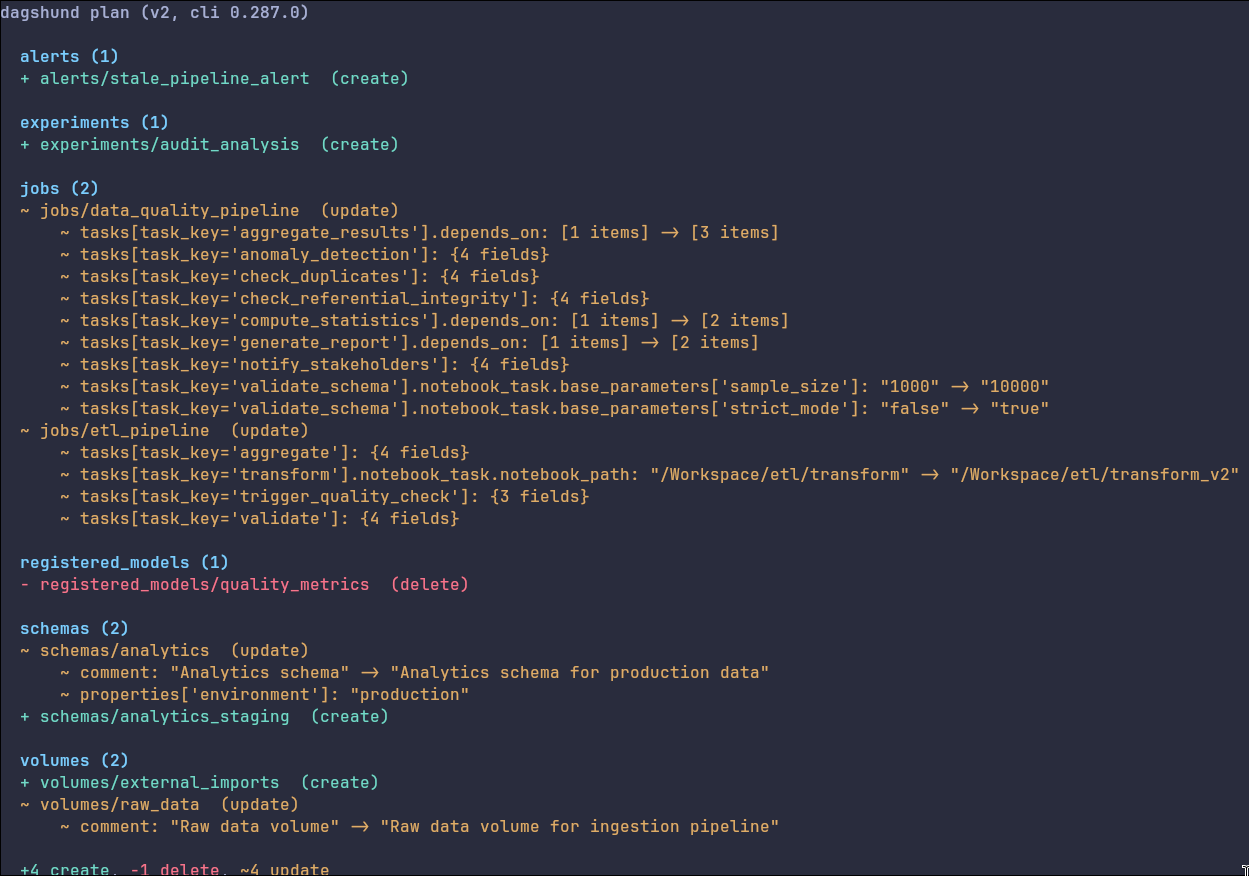
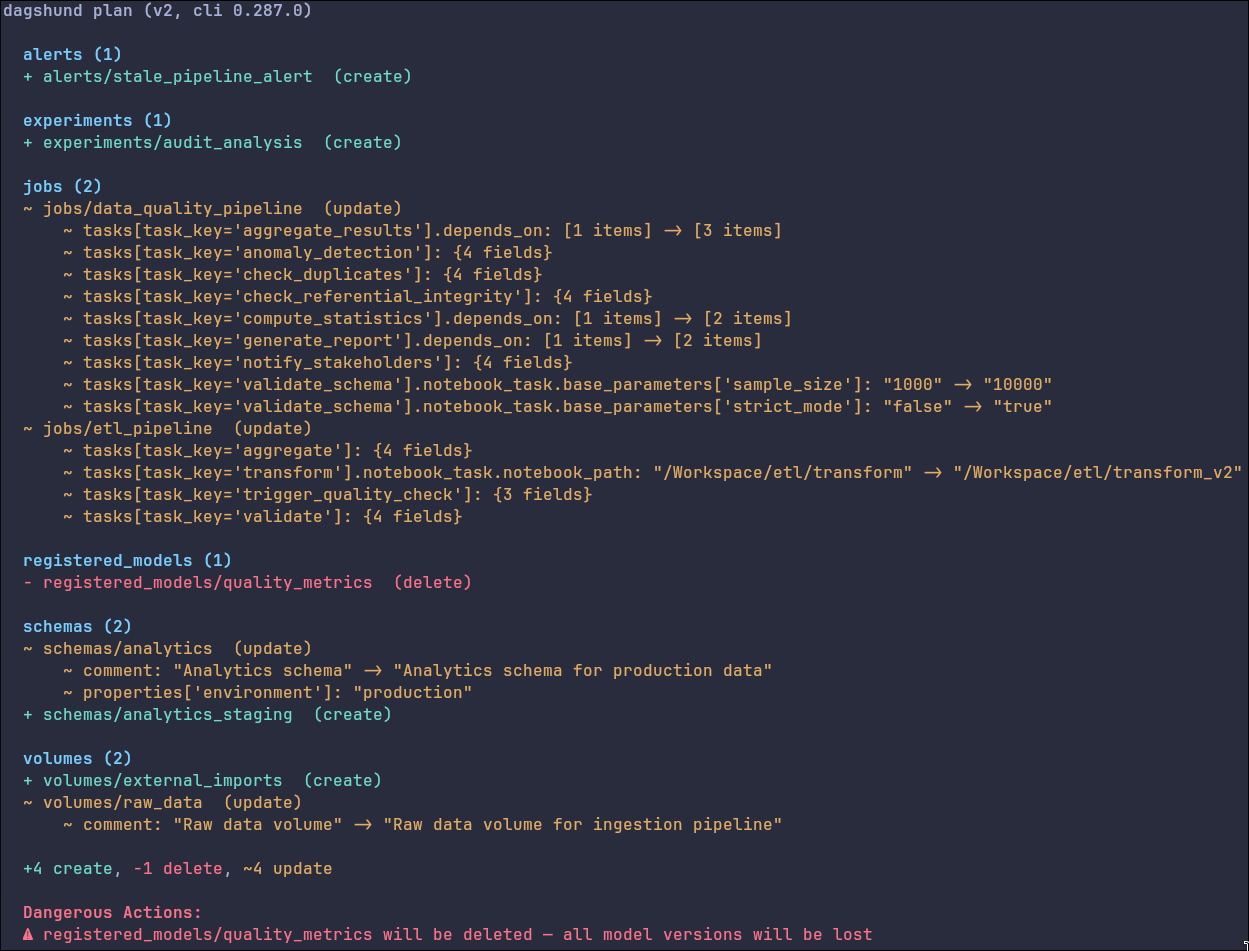
feat(cli): warn on dangerous actions for stateful resources
Emit warnings below the summary line when delete/recreate actions
target stateful resources (catalogs, schemas, volumes, registered_models).
Warnings respect --changes-only and individual diff state filters.

diff --git a/tests/test_text.py b/tests/test_text.py
@@ -7,7 +7,9 @@ import pytest
 from dagshund import DagshundError
 from dagshund.text import (
     _ACTIONS,
+    _DANGEROUS_ACTIONS,
     _DEFAULT_ACTION,
+    _STATEFUL_RESOURCE_WARNINGS,
     DIM,
     GREEN,
     RED,
@@ -17,6 +19,7 @@ from dagshund.text import (
     _action_config,
     _action_to_diff_state,
     _ActionConfig,
+    _collect_warnings,
     _colorize,
     _count_by_action,
     _filter_by_diff_state,
@@ -27,6 +30,7 @@ from dagshund.text import (
     _print_header,
     _print_resource_groups,
     _print_summary,
+    _print_warnings,
     _render_resource,
     _supports_color,
     render_text,
@@ -813,3 +817,204 @@ def test_render_text_no_visible_states_shows_everything(fixtures_dir: Path, caps
     assert "jobs" in out
     assert "schemas" in out
     assert "alerts" in out
+
+
+# --- _collect_warnings ---
+
+
+def test_collect_warnings_detects_stateful_delete() -> None:
+    resources = {"resources.volumes.imports": {"action": "delete"}}
+
+    warnings = _collect_warnings(resources)
+
+    assert len(warnings) == 1
+    assert "volumes/imports" in warnings[0]
+    assert "deleted" in warnings[0]
+    assert "all files in this volume will be lost" in warnings[0]
+
+
+def test_collect_warnings_detects_stateful_recreate() -> None:
+    resources = {"resources.schemas.analytics": {"action": "recreate"}}
+
+    warnings = _collect_warnings(resources)
+
+    assert len(warnings) == 1
+    assert "schemas/analytics" in warnings[0]
+    assert "recreated" in warnings[0]
+    assert "all tables, views, and volumes in this schema will be lost" in warnings[0]
+
+
+def test_collect_warnings_ignores_non_stateful_delete() -> None:
+    resources = {"resources.jobs.etl": {"action": "delete"}}
+
+    assert _collect_warnings(resources) == []
+
+
+def test_collect_warnings_ignores_stateful_update() -> None:
+    resources = {"resources.schemas.analytics": {"action": "update"}}
+
+    assert _collect_warnings(resources) == []
+
+
+def test_collect_warnings_ignores_stateful_skip() -> None:
+    resources = {"resources.volumes.data": {"action": "skip"}}
+
+    assert _collect_warnings(resources) == []
+
+
+@pytest.mark.parametrize(
+    ("resource_type", "expected_risk"),
+    [
+        ("catalogs", "all schemas, tables, and volumes in this catalog"),
+        ("schemas", "all tables, views, and volumes in this schema"),
+        ("volumes", "all files in this volume"),
+        ("registered_models", "all model versions"),
+    ],
+    ids=["catalogs", "schemas", "volumes", "registered_models"],
+)
+def test_collect_warnings_all_stateful_types(resource_type: str, expected_risk: str) -> None:
+    resources = {f"resources.{resource_type}.x": {"action": "delete"}}
+
+    warnings = _collect_warnings(resources)
+
+    assert len(warnings) == 1
+    assert expected_risk in warnings[0]
+
+
+def test_collect_warnings_respects_visible_states_filter() -> None:
+    resources = {
+        "resources.volumes.imports": {"action": "delete"},
+        "resources.schemas.analytics": {"action": "recreate"},
+    }
+
+    warnings = _collect_warnings(resources, visible_states=frozenset({DiffState.REMOVED}))
+
+    assert len(warnings) == 1
+    assert "volumes/imports" in warnings[0]
+
+
+def test_collect_warnings_empty_when_filtered_out() -> None:
+    resources = {"resources.volumes.imports": {"action": "delete"}}
+
+    assert _collect_warnings(resources, visible_states=frozenset({DiffState.ADDED})) == []
+
+
+def test_collect_warnings_multiple_sorted_by_key() -> None:
+    resources = {
+        "resources.volumes.z_data": {"action": "delete"},
+        "resources.catalogs.a_main": {"action": "delete"},
+    }
+
+    warnings = _collect_warnings(resources)
+
+    assert len(warnings) == 2
+    assert "catalogs/a_main" in warnings[0]
+    assert "volumes/z_data" in warnings[1]
+
+
+def test_collect_warnings_covers_all_dangerous_actions() -> None:
+    """Every action in _DANGEROUS_ACTIONS must trigger a warning on a stateful resource."""
+    for action in _DANGEROUS_ACTIONS:
+        resources = {"resources.schemas.test": {"action": action}}
+        assert _collect_warnings(resources), f"action '{action}' should produce a warning"
+
+
+def test_collect_warnings_covers_all_stateful_types() -> None:
+    """Every type in _STATEFUL_RESOURCE_WARNINGS must trigger a warning on delete."""
+    for resource_type in _STATEFUL_RESOURCE_WARNINGS:
+        resources = {f"resources.{resource_type}.test": {"action": "delete"}}
+        assert _collect_warnings(resources), f"resource type '{resource_type}' should produce a warning"
+
+
+# --- _print_warnings ---
+
+
+def test_print_warnings_outputs_header_and_warning_symbol(capsys: pytest.CaptureFixture[str]) -> None:
+    _print_warnings(["volumes/data will be deleted — all files in this volume will be lost"], use_color=False)
+
+    out = capsys.readouterr().out
+    assert "Dangerous Actions:" in out
+    assert "\u26a0" in out
+    assert "volumes/data" in out
+
+
+def test_print_warnings_uses_color_when_enabled(capsys: pytest.CaptureFixture[str]) -> None:
+    _print_warnings(["test warning"], use_color=True)
+
+    out = capsys.readouterr().out
+    assert RED in out
+    assert RESET in out
+
+
+def test_print_warnings_no_color_when_disabled(capsys: pytest.CaptureFixture[str]) -> None:
+    _print_warnings(["test warning"], use_color=False)
+
+    out = capsys.readouterr().out
+    assert RED not in out
+
+
+# --- render_text warnings (integration) ---
+
+
+def test_render_text_shows_warning_for_volume_delete(fixtures_dir: Path, capsys: pytest.CaptureFixture[str]) -> None:
+    plan = json.loads((fixtures_dir / "mixed-plan.json").read_text())
+
+    render_text(plan)
+
+    out = capsys.readouterr().out
+    assert "\u26a0" in out
+    assert "volumes/external_imports" in out
+    assert "deleted" in out
+
+
+def test_render_text_warning_appears_after_summary(fixtures_dir: Path, capsys: pytest.CaptureFixture[str]) -> None:
+    plan = json.loads((fixtures_dir / "mixed-plan.json").read_text())
+
+    render_text(plan)
+
+    out = capsys.readouterr().out
+    summary_pos = out.index("create,")
+    warning_pos = out.index("\u26a0")
+    assert warning_pos > summary_pos
+
+
+def test_render_text_no_warnings_for_safe_plan(capsys: pytest.CaptureFixture[str]) -> None:
+    plan = {
+        "plan_version": 2,
+        "cli_version": "0.288.0",
+        "plan": {
+            "resources.jobs.etl": {"action": "delete"},
+            "resources.alerts.old": {"action": "delete"},
+        },
+    }
+
+    render_text(plan)
+
+    out = capsys.readouterr().out
+    assert "\u26a0" not in out
+
+
+def test_render_text_warning_hidden_when_filtered_out(fixtures_dir: Path, capsys: pytest.CaptureFixture[str]) -> None:
+    plan = json.loads((fixtures_dir / "mixed-plan.json").read_text())
+
+    render_text(plan, visible_states=frozenset({DiffState.ADDED}))
+
+    out = capsys.readouterr().out
+    assert "\u26a0" not in out
+
+
+def test_render_text_schema_recreate_warns(capsys: pytest.CaptureFixture[str]) -> None:
+    plan = {
+        "plan_version": 2,
+        "cli_version": "0.288.0",
+        "plan": {
+            "resources.schemas.analytics": {"action": "recreate"},
+        },
+    }
+
+    render_text(plan)
+
+    out = capsys.readouterr().out
+    assert "\u26a0" in out
+    assert "schemas/analytics" in out
+    assert "recreated" in out

diff --git a/src/dagshund/text.py b/src/dagshund/text.py
@@ -73,6 +73,15 @@ _ACTIONS: dict[str, _ActionConfig] = {
 
 _DEFAULT_ACTION = _ActionConfig("unknown", RESET, "?")
 
+_DANGEROUS_ACTIONS = frozenset({"delete", "recreate"})
+
+_STATEFUL_RESOURCE_WARNINGS: dict[str, str] = {
+    "catalogs": "all schemas, tables, and volumes in this catalog will be lost",
+    "schemas": "all tables, views, and volumes in this schema will be lost",
+    "volumes": "all files in this volume will be lost",
+    "registered_models": "all model versions will be lost",
+}
+
 
 def _supports_color() -> bool:
     """Check if the terminal supports color output.
@@ -255,6 +264,32 @@ def _print_summary(
         print(f"  {parts}")
 
 
+def _collect_warnings(resources: ResourceChanges, *, visible_states: frozenset[DiffState] | None = None) -> list[str]:
+    """Collect warning messages for dangerous actions on stateful resources."""
+    warnings: list[str] = []
+    for key, entry in sorted(resources.items()):
+        action = entry.get("action", "")
+        if action not in _DANGEROUS_ACTIONS:
+            continue
+        if visible_states is not None and _action_to_diff_state(action) not in visible_states:
+            continue
+        resource_type, resource_name = _parse_resource_key(key)
+        risk = _STATEFUL_RESOURCE_WARNINGS.get(resource_type)
+        if risk is None:
+            continue
+        action_display = _action_config(action).display
+        warnings.append(f"{resource_type}/{resource_name} will be {action_display}d — {risk}")
+    return warnings
+
+
+def _print_warnings(warnings: list[str], *, use_color: bool) -> None:
+    """Print data-loss warnings below the summary line."""
+    print()
+    print(_colorize("  Dangerous Actions:", RED + _BOLD, use_color=use_color))
+    for warning in warnings:
+        print(_colorize(f"  \u26a0 {warning}", RED, use_color=use_color))
+
+
 def render_text(plan: Plan, *, visible_states: frozenset[DiffState] | None = None) -> None:
     """Render colored diff summary to terminal."""
     resources = plan.get("plan", {})
@@ -278,3 +313,7 @@ def render_text(plan: Plan, *, visible_states: frozenset[DiffState] | None = Non
 
     _print_resource_groups(_group_by_resource_type(resources), use_color=use_color, visible_states=visible_states)
     _print_summary(resources, use_color=use_color, visible_states=visible_states)
+
+    warnings = _collect_warnings(resources, visible_states=visible_states)
+    if warnings:
+        _print_warnings(warnings, use_color=use_color)
